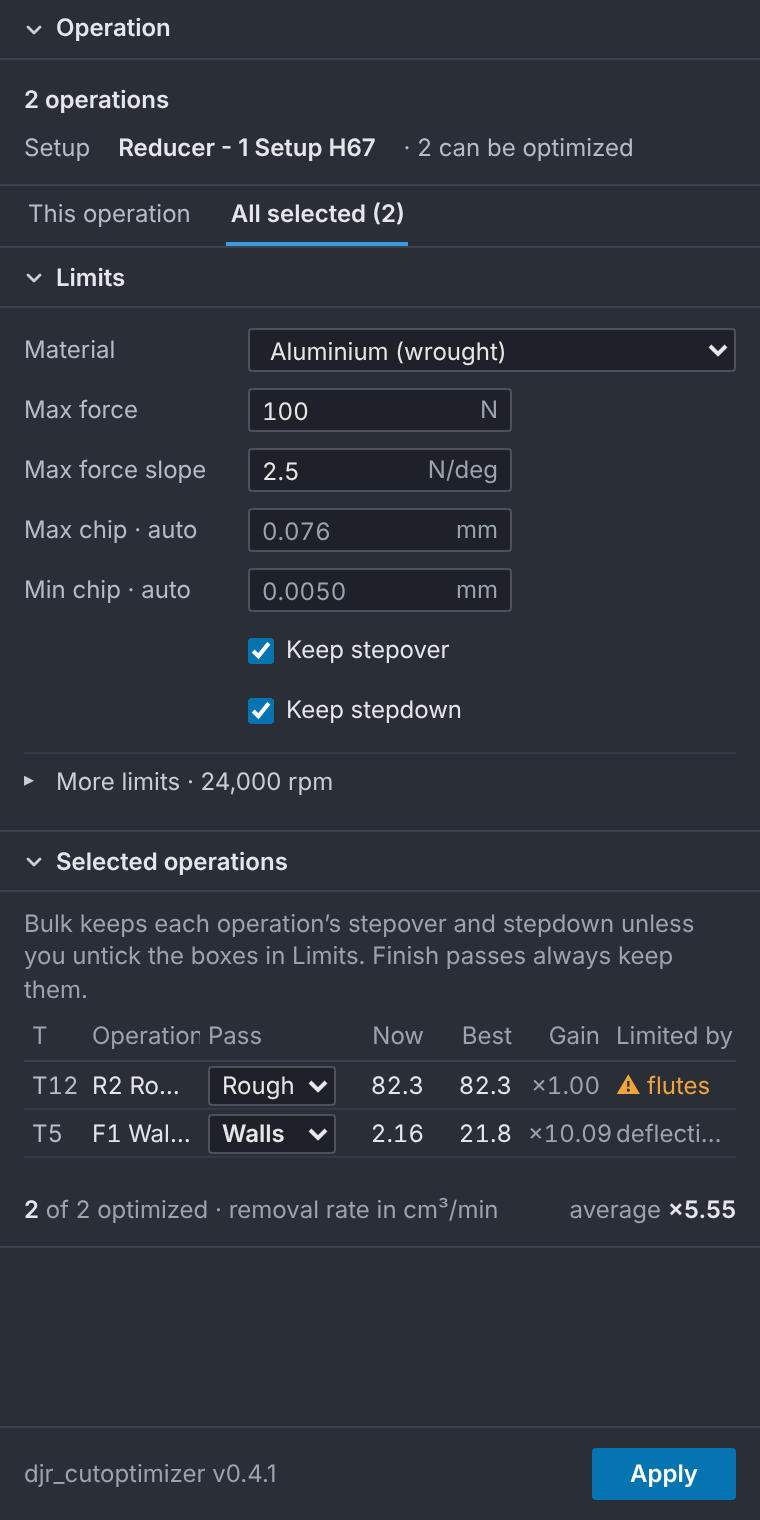
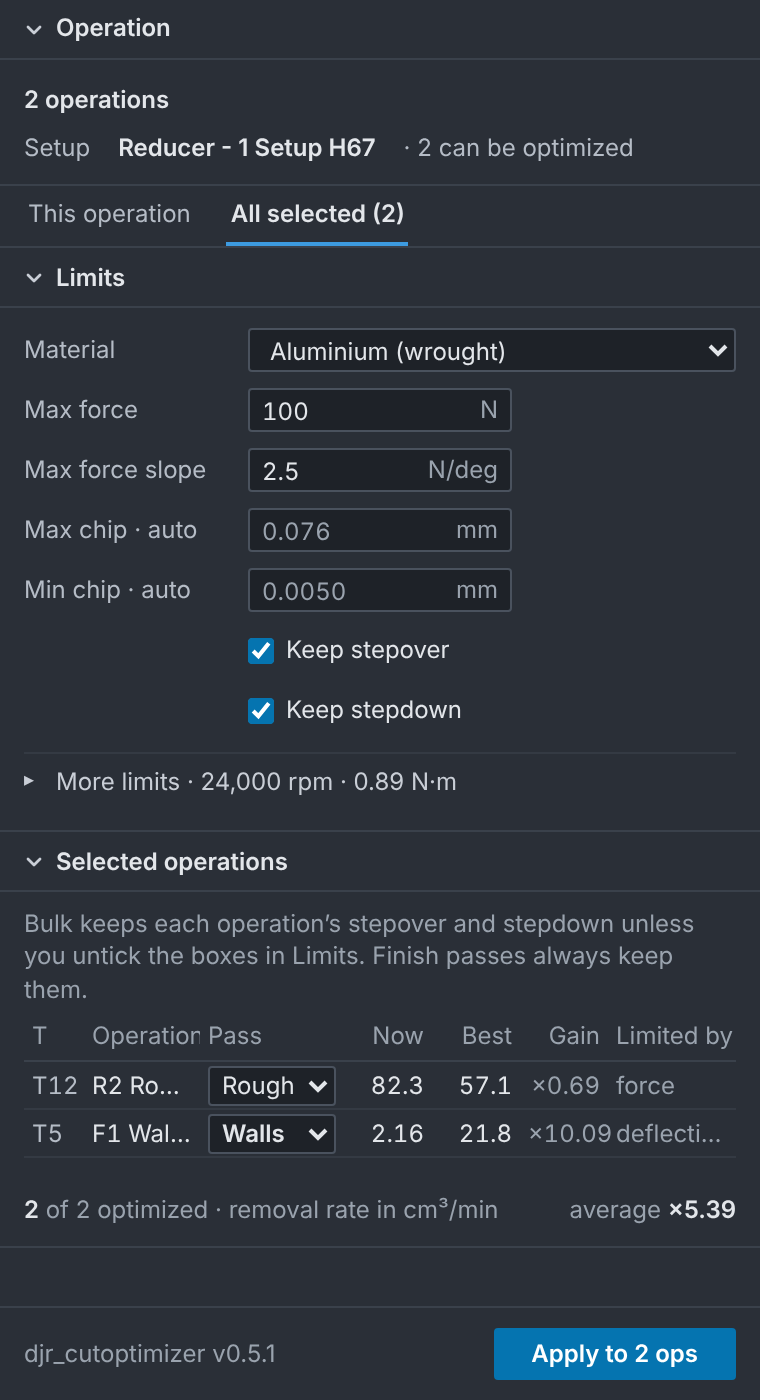
v0.5.1 release prep: changelog, README power/torque docs, fresh screenshots, panel version
- CHANGELOG: the #6 background fix and the stale footer version.
- README: spindle power and torque limits, their formulas, Results contents.
- docs/images re-rendered for v0.5.1 (power and torque rows, no stale flute warning).
- panel.html showed v0.4.1; build_release --check now requires it to match the manifest.

Claude-Session: https://claude.ai/code/session_014oRYSzGYFuyhaNhZMRfn2i

diff --git a/web/panel.html b/web/panel.html
@@ -302,7 +302,7 @@ const MATERIALS = {
 };
 const E_CARBIDE = 600000;   // N/mm², solid carbide (same as the calculator)
 const DEFAULT_MAT = "Aluminium (wrought)";
-const VERSION = "0.4.1";
+const VERSION = "0.5.1";
 const LIMIT_FIELDS = ["Fmax","slopeMax","hexMax","hmMin","nmax","vfmax","deflMax","vcMin","vcMax","helixDefault","pmax","tmax","eta","deflFinish","clearance"];
 const DEFAULT_LIMITS = { Fmax:30, slopeMax:2.5, hexMax:"", hmMin:"", nmax:24000, vfmax:"", deflMax:"", vcMin:"", vcMax:"", helixDefault:35, pmax:2.2, tmax:0.89, eta:0.85,
   deflFinish:0.01, clearance:0.05 };

diff --git a/tools/build_release.py b/tools/build_release.py
@@ -77,6 +77,9 @@ def main() -> None:
     manifest_version, config_version = read_versions()
     if manifest_version != config_version:
         sys.exit(f"version mismatch: manifest {manifest_version} vs config.py {config_version}")
+    panel = re.search(r'^const VERSION = "([^"]+)"', (ROOT / "web" / "panel.html").read_text(encoding="utf-8"), re.M)
+    if not panel or panel.group(1) != manifest_version:
+        sys.exit(f"version mismatch: manifest {manifest_version} vs web/panel.html {panel and panel.group(1)}")
     if args.tag and args.tag != f"v{manifest_version}":
         sys.exit(f"tag {args.tag} does not match version v{manifest_version}")
     notes = release_notes(manifest_version)

diff --git a/README.md b/README.md
@@ -27,7 +27,7 @@ To upgrade, replace the folder, then **Stop** and **Run** the add-in (or restart
 ## Use
 
 1. In **Manufacture**, click **Optimize feeds & speeds** in the **Actions** panel. The panel opens on the right.
-2. Click an operation in the CAM browser. The **Operation** section at the top names what you're optimizing: tool number, operation, strategy, tool Ø, flutes, helix, stickout and setup. **Results** shows the current cut next to the best one inside your limits, with the removal-rate gain, and **Force over one revolution** graphs both. It re-optimizes whenever you click another operation or change a limit.
+2. Click an operation in the CAM browser. The **Operation** section at the top names what you're optimizing: tool number, operation, strategy, tool Ø, flutes, helix, stickout and setup. **Results** shows the current cut next to the best one inside your limits (feeds, speeds, removal rate, spindle power and torque at the motor, peak force, slope and deflection), with the removal-rate gain, and **Force over one revolution** graphs both. It re-optimizes whenever you click another operation or change a limit.
 3. **Bulk:** Shift- or Ctrl-click several operations, or click a whole setup, and open **All selected**. Each row shows the pass type, the removal rate now and the best, the gain, and what limits it. Operations the model doesn't cover say why. Click a row to open it.
 4. The first time for each setup, pick the stock **material** and click **Save to setup**. It's saved on the setup.
 5. Check the tool's **helix** and **stickout** under Operation. Fusion tools often lack them; values marked *assumed* are guesses (helix 35°, stickout 1.25 × flute length). Enter them once per tool. The **flute count** comes from the tool library, so make sure the tool is set up correctly there.
@@ -69,7 +69,9 @@ A gain below ×1 is shown in amber. It means the current cut is over your limits
 | Max slope | 2.5 N/° | Steepest rise in force per degree of rotation. It doesn't depend on rpm. Lower means gentler flute entry and less chatter. |
 | Max chip | **auto** | Max chip thickness h<sub>ex</sub>. Blank uses the material table below × tool Ø. |
 | Min chip | **auto** | Average chip h<sub>m</sub> below which the edge rubs. Blank uses the material table. |
-| Max spindle | 24,000 rpm | Under *More limits*, with max feed, max deflection, the cutting-speed window, helix if unknown, and spindle power. |
+| Max spindle | 24,000 rpm | Under *More limits*, with max feed, max deflection, the cutting-speed window, helix if unknown, spindle power and spindle torque. |
+| Spindle power | 2.2 kW | Under *More limits*; used when *Limit power* is ticked. Compared at the motor: cutting power ÷ efficiency. |
+| Max spindle torque | 0.89 N·m | Motor torque the spindle can deliver (cutting torque ÷ efficiency). A VFD spindle has constant torque up to rated speed, so this is the real ceiling whenever a cut runs below max rpm. Blank turns it off. |
 | Max feed | none | **Set this** to what your machine can really do. With thin stepovers the model allows very high feeds, and the panel warns you when that happens. |
 | Max deflection | none | Tool deflection at the peak force (see below). |
 | Finish deflection | 0.01 mm | Deflection limit for wall and floor finish passes (the tighter of this and Max deflection wins). |
@@ -111,6 +113,8 @@ The model is Sandvik Coromant's specific-cutting-force model, shared with [djr_c
 | Max chip | h<sub>ex</sub> = f<sub>z</sub>·sin φ for a<sub>e</sub> < D/2, else f<sub>z</sub> |
 | Specific force | k<sub>c</sub> = k<sub>c1</sub>·h<sub>m</sub><sup>−m<sub>c</sub></sup> |
 | Force curve | exact integral of k<sub>c</sub>·f<sub>z</sub>·sin θ along each helical flute, sampled every 0.1° |
+| Spindle power | P = a<sub>e</sub>·a<sub>p</sub>·v<sub>f</sub>·k<sub>c</sub> / (60·10⁶·η) kW, η = spindle efficiency |
+| Spindle torque | M = P·30·10³ / (π·n) N·m (at the motor) |
 | Deflection | δ = F<sub>peak</sub>·L³ / (3·E·I), I = π(0.8·D)⁴/64, E = 600 GPa (carbide), L = stickout |
 
 **The force graph** is the tangential force on the tool through one revolution, 0–360° left to right, 0 N at the bottom, a grid line every 90°. The blue line is the optimized cut, the grey line the current cut, and the amber dashed line your force limit. Nothing is filtered or smoothed. It is the exact integral rather than the older sliced approximation, which added sawtooth spikes. Light, deep cuts at a smooth depth look nearly flat; that's real, not smoothing.
@@ -120,7 +124,7 @@ The model is Sandvik Coromant's specific-cutting-force model, shared with [djr_c
 **The optimizer:**
 
 1. runs the spindle as fast as the rpm and cutting-speed limits allow;
-2. for each stepover × stepdown on a grid, computes one force curve and solves for the largest feed per tooth every limit allows (force, slope and power all scale exactly with f<sub>z</sub><sup>1−m<sub>c</sub></sup>);
+2. for each stepover × stepdown on a grid, computes one force curve and solves for the largest feed per tooth every limit allows (force, slope, power and torque all scale exactly with f<sub>z</sub><sup>1−m<sub>c</sub></sup>);
 3. refines around the best point and re-checks it on a 0.05° force curve;
 4. snaps the depth just under a whole multiple of the flute pitch πD/(z·tan β) when that's within 1% of the best. Force is nearly constant there, but only *just under*: go even 0.02 mm deeper and the full slope comes back.
 
@@ -138,7 +142,7 @@ The model is Sandvik Coromant's specific-cutting-force model, shared with [djr_c
 |---|---|
 | Checked in Fusion (Windows) | The toolbar button and the panel load (v0.3), and the v0.5 panel shows a tool's flute count from the tool library. Reading a real 3D Adaptive roughing operation, and Apply on it in v0.4.1: spindle speed, feed and stepover were written, read back and the toolpath regenerated. That confirms `tool_spindleSpeed`, `tool_feedCutting` and `optimalLoad`. |
 | Verified by tests | The model and optimizer against the Sandvik and HSM reference cuts (15 Node tests). 42 Python tests against a fake Fusion API: reading operations, expanding setups, skipping unsupported operations, storing the material, limit profiles, and no crash with no document, no CAM data or nothing selected. For Apply, they also cover the write plan for each pass type, read-back checks, rollback when Fusion refuses a value or a parameter is locked, partial bulk applies, and Revert. The panel itself (pass defaults, finish engagement, the two-click Apply, the payload sent to Fusion, Revert, bulk) is driven by a fake Fusion bridge in headless Chrome. |
-| Not verified yet | Wall and floor finish passes (stock to leave), Revert, Apply on a pocket, contour or slot, and bulk Apply on several operations. |
+| Not verified yet | Wall and floor finish passes (stock to leave), Revert, Apply on a pocket, contour or slot, bulk Apply on several operations, and the v0.5.1 panel background fix (#6). |
 | Unverified names | The other CAM parameter names in `commands/optimizer/cam_mapping.py`: `maximumStepdown` (read, not yet written), `radialStockToLeave`, `axialStockToLeave`, `stockToLeave`, `tool_bodyLength`, …. A wrong name makes Apply refuse that operation with a message; it doesn't write somewhere else. |
 
 **Help verify the parameter names:** run the `djr_dump_cam_params` script from the release (Scripts tab → **+** → the unzipped folder → **Run**). Select an adaptive, a 2D contour (with stock to leave ticked), a 2D pocket and a slot first. Then commit its output to `docs/cam_params/`.

diff --git a/CHANGELOG.md b/CHANGELOG.md
@@ -1,6 +1,10 @@
 # Changelog
 
-## v0.5.1 — 2026-11-24
+## v0.5.1 — 2026-11-25
+
+**Fixed: panel half light, half dark (#6).** On some systems, after Apply the lower part of the panel (Results, the force graph, Revert) lost its dark background, leaving light text on Fusion's light gray. Every part of the panel now paints its own background, and the panel repaints itself after Apply, Revert, a selection change, and when it's shown, focused or resized.
+
+**Fixed: version label.** The panel footer said v0.4.1. It now shows the add-in's version, and the release check fails if they disagree.
 
 **Spindle power and torque in Results.** The panel already calculated cutting power and torque but never showed them. Results now has *Spindle power* (at the motor: net ÷ efficiency, kW) and *Spindle torque* (N·m) for both the current and optimized cut. With *Limit power* on, a current cut over your spindle power gets ⚠.
 

diff --git a/CLAUDE.md b/CLAUDE.md
@@ -62,7 +62,7 @@ None of this replaces a real Fusion run. Be explicit about what was verified in 
 
 ## Releasing
 
-1. Bump `"version"` in `djr_cutoptimizer.manifest` **and** `PLUGIN_VERSION` in `config.py`.
+1. Bump `"version"` in `djr_cutoptimizer.manifest`, `PLUGIN_VERSION` in `config.py` **and** `const VERSION` in `web/panel.html` (`build_release.py --check` enforces all three).
 2. Add `## vX.Y.Z — date` to `CHANGELOG.md`. The release notes are `tools/release_intro.md` (summary and screenshots pinned to the tag), then that body as "What's new", then `tools/release_install.md` (install and quick start).
 3. Push to `main`, then `git tag vX.Y.Z && git push origin vX.Y.Z`. `.github/workflows/release.yml` tests, builds `djr_cutoptimizer-vX.Y.Z.zip` and `djr_dump_cam_params-vX.Y.Z.zip`, and publishes the release. A tag that doesn't match the version fails on purpose.
 

diff --git a/tools/release_intro.md b/tools/release_intro.md
@@ -8,4 +8,4 @@ Click an operation in the Manufacture browser, and a panel shows the current cut
 
 **No Fusion?** The same model runs in your browser: [online calculator](https://jayem1427.github.io/cutcalculator/).
 
-<sub>Renderings of the panel with a sample setup (a 1/4" 3-flute tool in 6061), not Fusion screenshots.</sub>
+<sub>Renderings of the panel with a sample setup (a 3/8" 3-flute tool in 6061), not Fusion screenshots.</sub>
